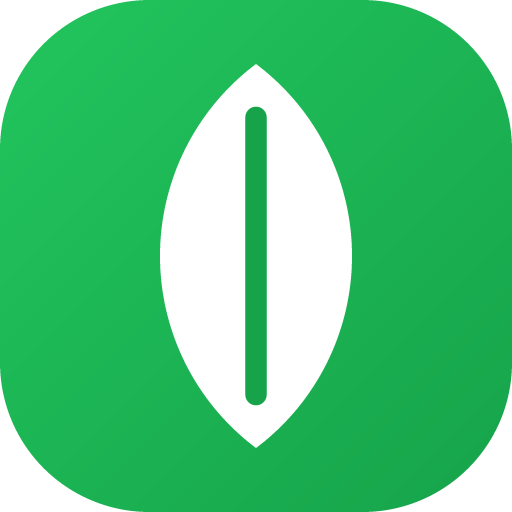
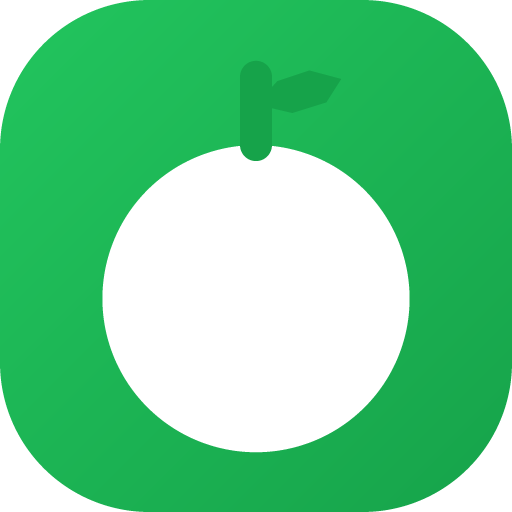
Zamenjaj ikono z jabolkom
List je bil premalo povezan z besedo "Zdrav" - jabolko (telo + pecelj + listič)
jasneje predstavlja zdravo prehrano. Posodobi icon.svg, generator PNG in glavno ikono v UI.

Changed region(s): [[0.1875, 0.125, 0.8125, 0.9062]]

diff --git a/tools/make-icons.js b/tools/make-icons.js
@@ -1,6 +1,6 @@
 /* Izriše ikone PNG iz iste risbe kot icon.svg — brez zunanjih odvisnosti.
    Zagon: node tools/make-icons.js
-   List = presek dveh krogov (vesica) — glej icon.svg za enak izračun. */
+   Jabolko = krog + pecelj (kapsula) + listič (mnogokotnik), glej icon.svg za isto risbo. */
 var zlib = require('zlib'), fs = require('fs'), path = require('path');
 
 var OUT = path.join(__dirname, '..', 'icons');
@@ -8,12 +8,13 @@ var SS = 4;
 
 var GRAD_A = [0x22, 0xc5, 0x5e];
 var GRAD_B = [0x16, 0xa3, 0x4a];
-var LEAF = [0xff, 0xff, 0xff];
-var VEIN = [0x16, 0xa3, 0x4a];
+var BODY = [0xff, 0xff, 0xff];
+var ACCENT = [0x16, 0xa3, 0x4a];
 
-// Presek dveh krogov r=11.25, centra na (5.25,12) in (18.75,12) -> konici na (12,3) in (12,21).
-var LEAF_A = { cx: 5.25, cy: 12, r: 11.25 };
-var LEAF_B = { cx: 18.75, cy: 12, r: 11.25 };
+var BODY_CIRCLE = { cx: 12, cy: 14, r: 7.2 };
+var STEM = { x1: 12, y1: 6.8, x2: 12, y2: 3.6, halfW: 0.75 };
+// Približek zaobljenega lista (glej ukrivljeno pot v icon.svg).
+var LEAF_POLY = [12, 4.9, 13, 3.8, 14.5, 3.3, 16, 3.7, 15.3, 4.8, 13.7, 5.3];
 var ART = { cx: 12, cy: 12 };
 
 function insideRoundRect(x, y, w, h, r) {
@@ -36,6 +37,15 @@ function insideCapsule(x, y, x1, y1, x2, y2, halfW) {
   t = Math.min(1, Math.max(0, t));
   var dx = x - (x1 + t * vx), dy = y - (y1 + t * vy);
   return dx * dx + dy * dy <= halfW * halfW;
+}
+
+function insidePolygon(x, y, pts) {
+  var hit = false;
+  for (var i = 0, j = pts.length - 2; i < pts.length; j = i, i += 2) {
+    var xi = pts[i], yi = pts[i + 1], xj = pts[j], yj = pts[j + 1];
+    if ((yi > y) !== (yj > y) && x < (xj - xi) * (y - yi) / (yj - yi) + xi) hit = !hit;
+  }
+  return hit;
 }
 
 function lerp(a, b, t) { return Math.round(a + (b - a) * t); }
@@ -105,16 +115,20 @@ function drawIcon(size, maskable) {
     bmp.fillGradient(function (x, y) { return insideRoundRect(x, y, n, n, 7 * unit); }, GRAD_A, GRAD_B);
   }
 
-  // List: presek dveh krogov v risalnih (24-enotnih) koordinatah, preslikanih v pikslih prek X()/Y().
+  // Telo jabolka
   bmp.fill(function (px, py) {
-    return insideCircle(px, py, X(LEAF_A.cx), Y(LEAF_A.cy), LEAF_A.r * S)
-        && insideCircle(px, py, X(LEAF_B.cx), Y(LEAF_B.cy), LEAF_B.r * S);
-  }, LEAF);
+    return insideCircle(px, py, X(BODY_CIRCLE.cx), Y(BODY_CIRCLE.cy), BODY_CIRCLE.r * S);
+  }, BODY);
 
-  // Žilica po sredini lista
+  // Pecelj
   bmp.fill(function (px, py) {
-    return insideCapsule(px, py, X(12), Y(5.5), X(12), Y(18.5), 0.5 * S);
-  }, VEIN);
+    return insideCapsule(px, py, X(STEM.x1), Y(STEM.y1), X(STEM.x2), Y(STEM.y2), STEM.halfW * S);
+  }, ACCENT);
+
+  // Listič
+  var leafPts = [];
+  for (var i = 0; i < LEAF_POLY.length; i += 2) leafPts.push(X(LEAF_POLY[i]), Y(LEAF_POLY[i + 1]));
+  bmp.fill(function (px, py) { return insidePolygon(px, py, leafPts); }, ACCENT);
 
   return downsample(bmp, size);
 }

diff --git a/index.html b/index.html
@@ -19,8 +19,10 @@
   <header class="hero">
     <div class="brand">
       <span class="brand-icon" aria-hidden="true">
-        <svg viewBox="0 0 24 24" fill="none">
-          <path d="M12 3 A11.25 11.25 0 0 1 12 21 A11.25 11.25 0 0 1 12 3 Z" fill="currentColor"/>
+        <svg viewBox="0 0 24 24" fill="currentColor" stroke="currentColor">
+          <circle cx="12" cy="14" r="7.2"/>
+          <path d="M12 6.8 L12 3.6" stroke-width="1.5" stroke-linecap="round"/>
+          <path d="M12 4.9 Q14.4 3.1 16 3.7 Q15 6.2 12 4.9 Z" stroke="none"/>
         </svg>
       </span>
       <div class="brand-text">

diff --git a/sw.js b/sw.js
@@ -1,7 +1,7 @@
 /* Predpomnilnik lupine aplikacije, da deluje tudi brez povezave.
    Slike obrokov so v IndexedDB in delujejo brez neta neodvisno od tega predpomnilnika.
    Ob spremembi datotek povečaj VERSION. */
-var VERSION = 'zdrav-v1';
+var VERSION = 'zdrav-v2';
 var SHELL = [
   './', './index.html', './style.css', './icon.svg', './manifest.json',
   './js/db.js', './js/app.js',
